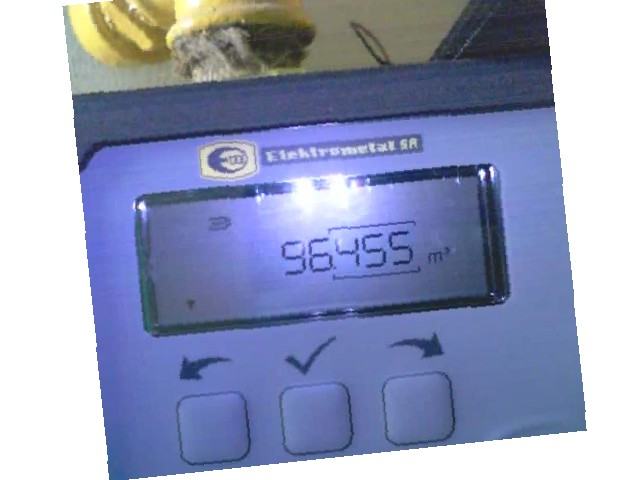
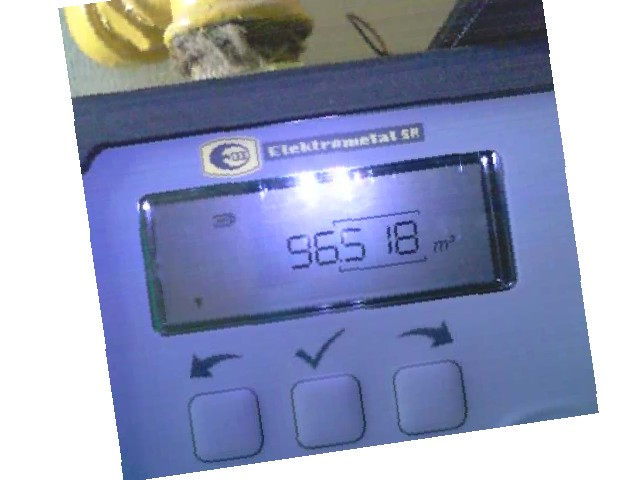
Automatyczna aktualizacja strony i danych

diff --git a/index.html b/index.html
@@ -35,11 +35,11 @@
 <body>
     <div class="container">
         <h1>Bieżący Stan Licznika</h1>
-        <div class="status">Ostatnia aktualizacja danych:<br><span class="timestamp">2026-10-27 08:15:21</span></div>
+        <div class="status">Ostatnia aktualizacja danych:<br><span class="timestamp">2026-10-27 08:20:48</span></div>
         <div class="odczyt">93498 m³</div>
         <div class="uwaga">Ostatni odczyt się nie powiódł, wyświetlana jest poprzednia poprawna wartość.</div>
         <h3>Aktualne zdjęcie z gazomierza:</h3>
-        <img src="img_tmp/alg.jpg?t=1793085321" alt="Zdjęcie licznika">
+        <img src="img_tmp/alg.jpg?t=1793085648" alt="Zdjęcie licznika">
     </div>
 </body>
 </html>
